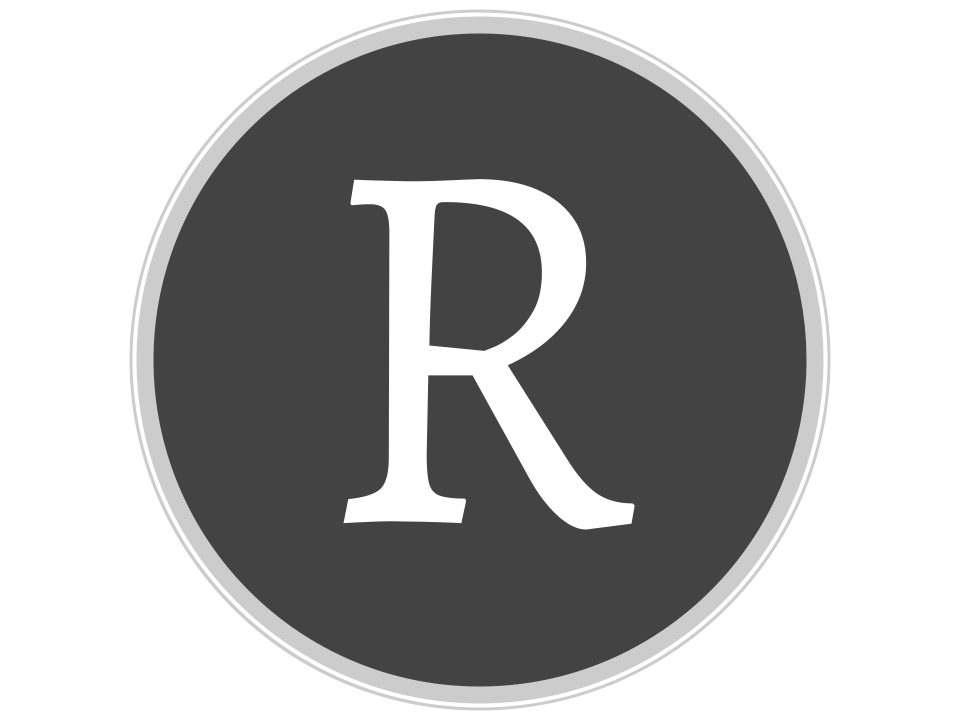
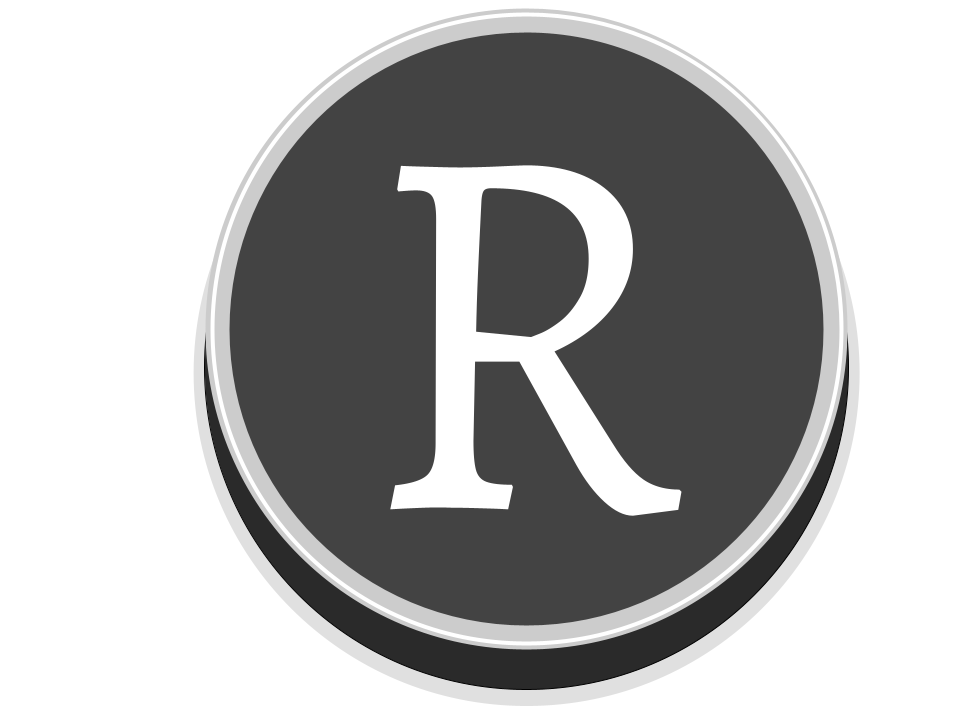
Added depth to unpressed key assets.

Changed region(s): [[0.125, 0.0, 0.9062, 1.0], [0.3438, 0.2139, 0.7188, 0.7333]]

diff --git a/my-app/src/index.css b/my-app/src/index.css
@@ -75,7 +75,7 @@ a:hover{
 }
 
 .unpressed-keys{
-  width:7%;
+  width:7.35%;
   margin:0.5%;
   margin-left:0.65%;
   margin-right:0.65%;
